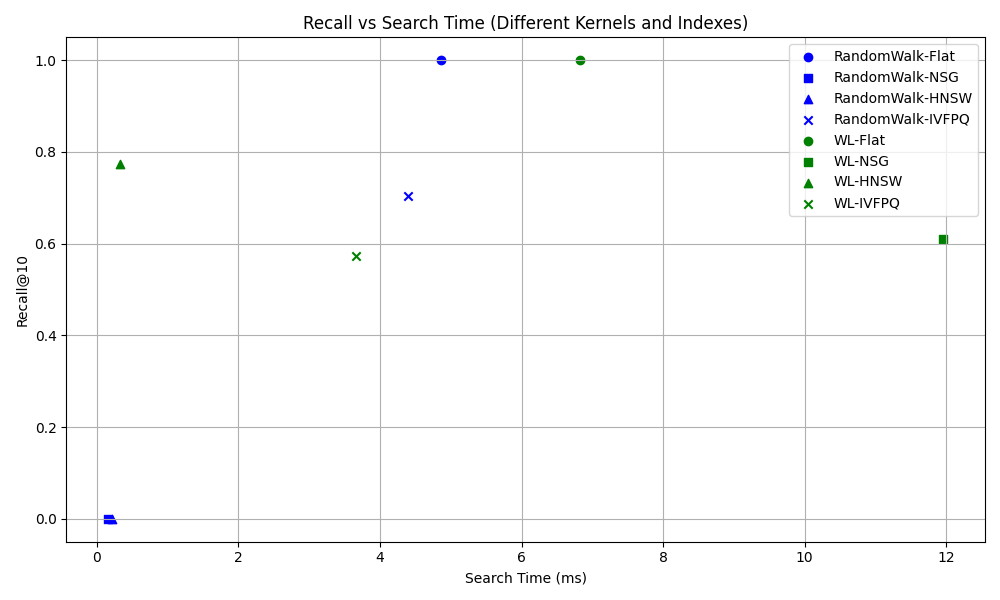
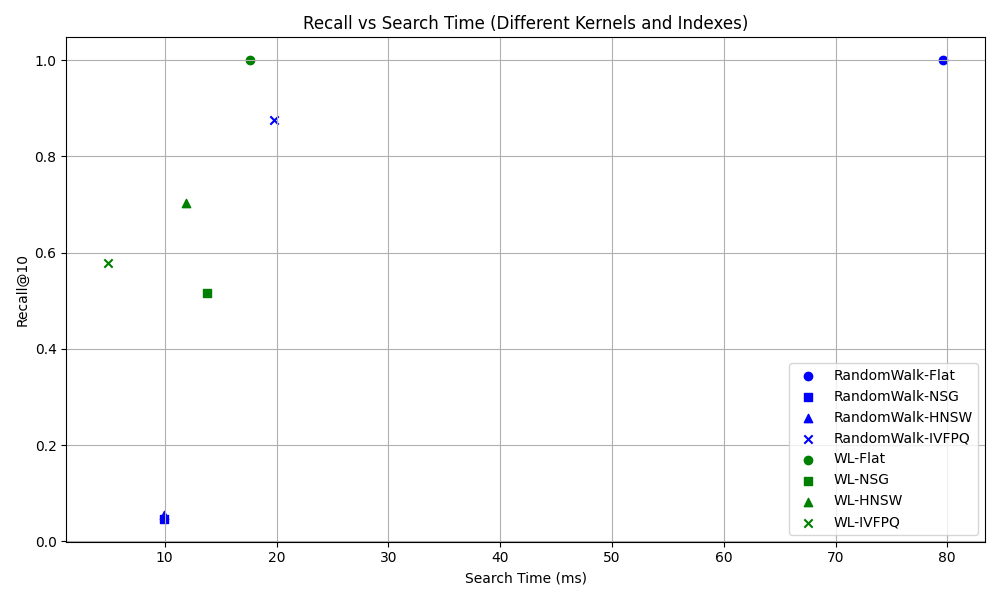
update subgraph=5000 size=20 case

diff --git a/record/record_result.md b/record/record_result.md
@@ -310,6 +310,47 @@ WL-NSG: Recall@10 = 0.5220, Time = 0.62 ms
 WL-HNSW: Recall@10 = 0.6940, Time = 1.47 ms
 WL-IVFPQ: Recall@10 = 0.6110, Time = 10.76 ms
 Plot saved as recall_vs_time_k10_num_subgraphs5000_subgraph_size10.png
+(dm) cookiecoolkid@Cookie:~/course/data-mining/src$ python plot_ogb_arxiv_recall_test.py 
+Graph loaded. Nodes: 169343 Edges: 1157799
+Sampled 5000 subgraphs.
+Processing Kernel: RandomWalk
+/home/cookiecoolkid/course/data-mining/src/plot_ogb_arxiv_recall_test.py:96: RuntimeWarning: invalid value encountered in sqrt
+  diag = np.sqrt(np.diag(K))
+Testing Index: Flat with Kernel: RandomWalk
+Building index of type: Flat with dimension: 128
+Index built for Flat with kernel RandomWalk.
+Testing Index: NSG with Kernel: RandomWalk
+Building index of type: NSG with dimension: 128
+Index built for NSG with kernel RandomWalk.
+Testing Index: HNSW with Kernel: RandomWalk
+Building index of type: HNSW with dimension: 128
+Index built for HNSW with kernel RandomWalk.
+Testing Index: IVFPQ with Kernel: RandomWalk
+Building index of type: IVFPQ with dimension: 128
+Index built for IVFPQ with kernel RandomWalk.
+Processing Kernel: WL
+Testing Index: Flat with Kernel: WL
+Building index of type: Flat with dimension: 128
+Index built for Flat with kernel WL.
+Testing Index: NSG with Kernel: WL
+Building index of type: NSG with dimension: 128
+Index built for NSG with kernel WL.
+Testing Index: HNSW with Kernel: WL
+Building index of type: HNSW with dimension: 128
+Index built for HNSW with kernel WL.
+Testing Index: IVFPQ with Kernel: WL
+Building index of type: IVFPQ with dimension: 128
+Index built for IVFPQ with kernel WL.
+RandomWalk-Flat: Recall@10 = 1.0000, Time = 79.64 ms
+RandomWalk-NSG: Recall@10 = 0.0470, Time = 9.90 ms
+RandomWalk-HNSW: Recall@10 = 0.0550, Time = 9.90 ms
+RandomWalk-IVFPQ: Recall@10 = 0.8760, Time = 19.77 ms
+WL-Flat: Recall@10 = 1.0000, Time = 17.60 ms
+WL-NSG: Recall@10 = 0.5160, Time = 13.79 ms
+WL-HNSW: Recall@10 = 0.7030, Time = 11.88 ms
+WL-IVFPQ: Recall@10 = 0.5780, Time = 4.93 ms
+Plot saved as recall_vs_time_k10_num_subgraphs5000_subgraph_size20.png
+
 
 (dm) cookiecoolkid@Cookie:~/course/data-mining/src$ python plot_ogb_arxiv_recall_test.py 
 Graph loaded. Nodes: 169343 Edges: 1157799

diff --git a/record/table.md b/record/table.md
@@ -41,12 +41,12 @@ Recall
 
 | 参数组合 (Subgraphs=5000) | RandomWalk-Flat | RandomWalk-NSG | RandomWalk-HNSW | RandomWalk-IVFPQ | WL-Flat | WL-NSG | WL-HNSW | WL-IVFPQ |
 | --------------------- | --------------- | -------------- | --------------- | ---------------- | ------- | ------ | ------- | -------- |
-| Size=10               | 78.46 ms          | 11.89 ms         | 0.45 ms          | 5.43 ms           | 9.23 ms  | 0.62 ms | 1.47 ms  | 10.76 ms   |
-| Size=20               | 4.42 ms          | 0.13 ms         | 0.15 ms          | 4.28 ms           | 6.82 ms  | 11.98 ms | 0.36 ms  | 3.82 ms   |
-| Size=50               | 32.56 ms          | 9.11 ms         | 14.23 ms          | 12.02 ms           | 69.97 ms  | 10.94 ms | 0.92 ms  | 5.26 ms   |
+| Size=10               | 78.46 ms        | 11.89 ms       | 0.45 ms         | 5.43 ms          | 9.23 ms | 0.62 ms| 1.47 ms | 10.76 ms |
+| Size=20               | 79.64 ms        | 9.90 ms        | 9.90 ms         | 19.77 ms         | 17.60 ms| 13.79 ms| 11.88 ms| 4.93 ms  |
+| Size=50               | 32.56 ms        | 9.11 ms        | 14.23 ms        | 12.02 ms         | 69.97 ms| 10.94 ms| 0.92 ms | 5.26 ms  |
 
 | 参数组合 (Subgraphs=5000) | RandomWalk-Flat | RandomWalk-NSG | RandomWalk-HNSW | RandomWalk-IVFPQ | WL-Flat | WL-NSG | WL-HNSW | WL-IVFPQ |
 | --------------------- | --------------- | -------------- | --------------- | ---------------- | ------- | ------ | ------- | -------- |
 | Size=10               | 1.0000          | 0.5410         | 0.4930          | 0.7910           | 1.0000  | 0.5220 | 0.6940  | 0.6110   |
-| Size=20               | 1.0000          | 0.0000         | 0.0000          | 0.7120           | 1.0000  | 0.6190 | 0.7810  | 0.5860   |
+| Size=20               | 1.0000          | 0.0470         | 0.0550          | 0.8760           | 1.0000  | 0.5160 | 0.7030  | 0.5780   |
 | Size=50               | 1.0000          | 0.0020         | 0.0030          | 0.9920           | 1.0000  | 0.6340 | 0.6260  | 0.6170   |
